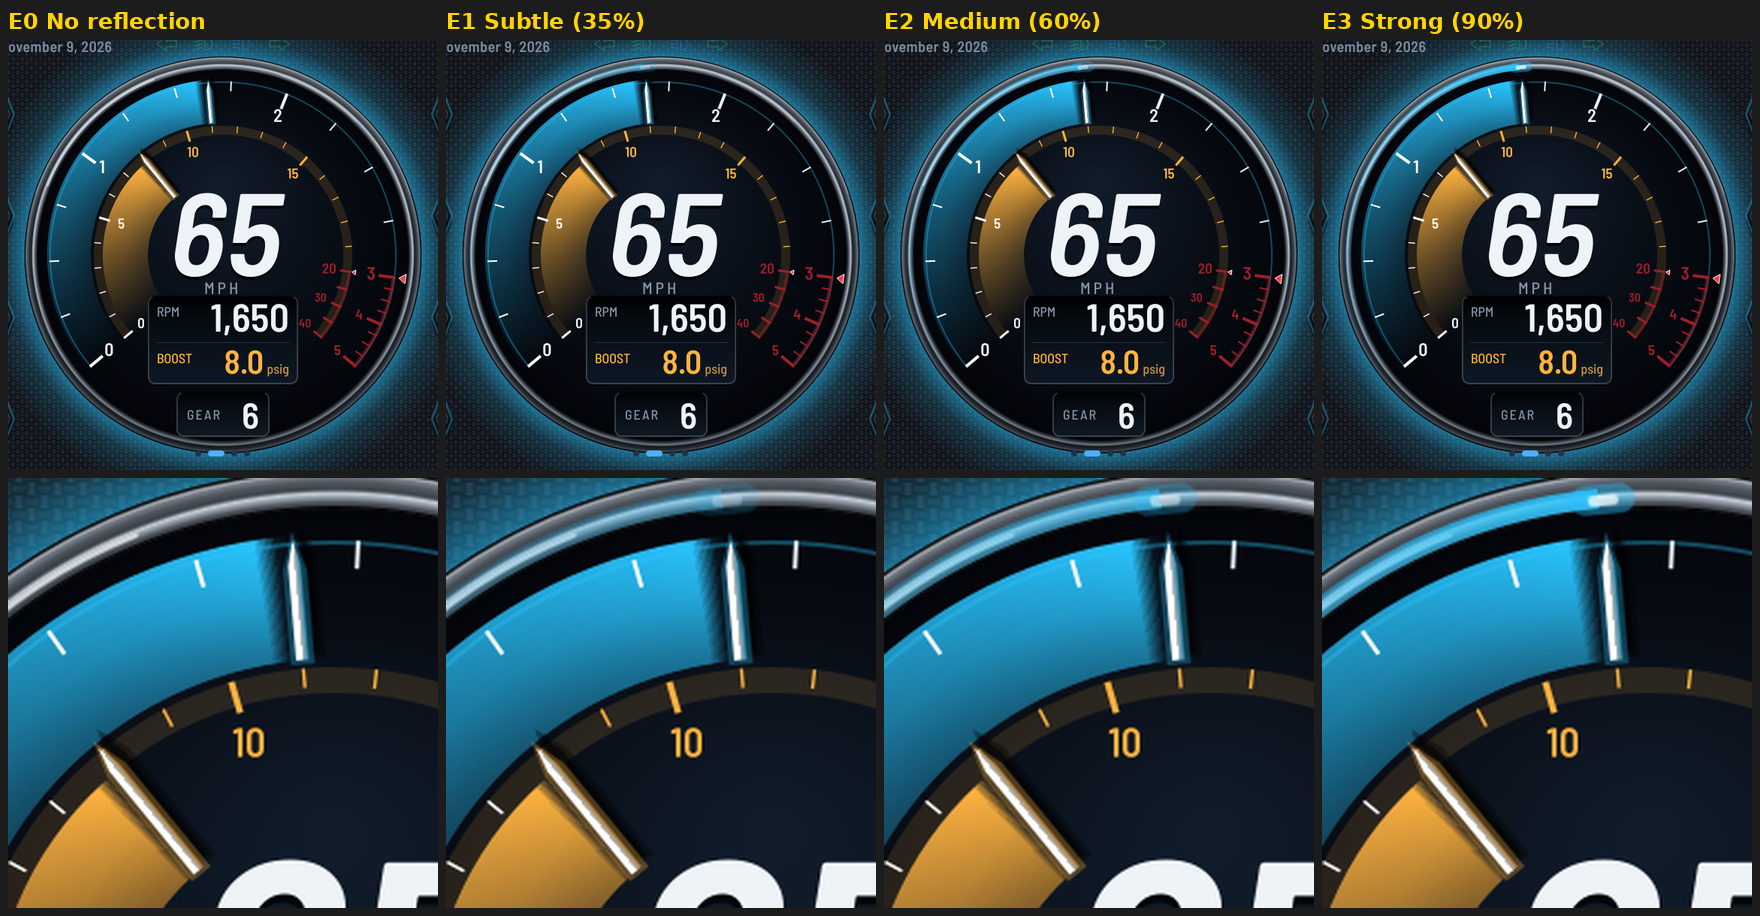
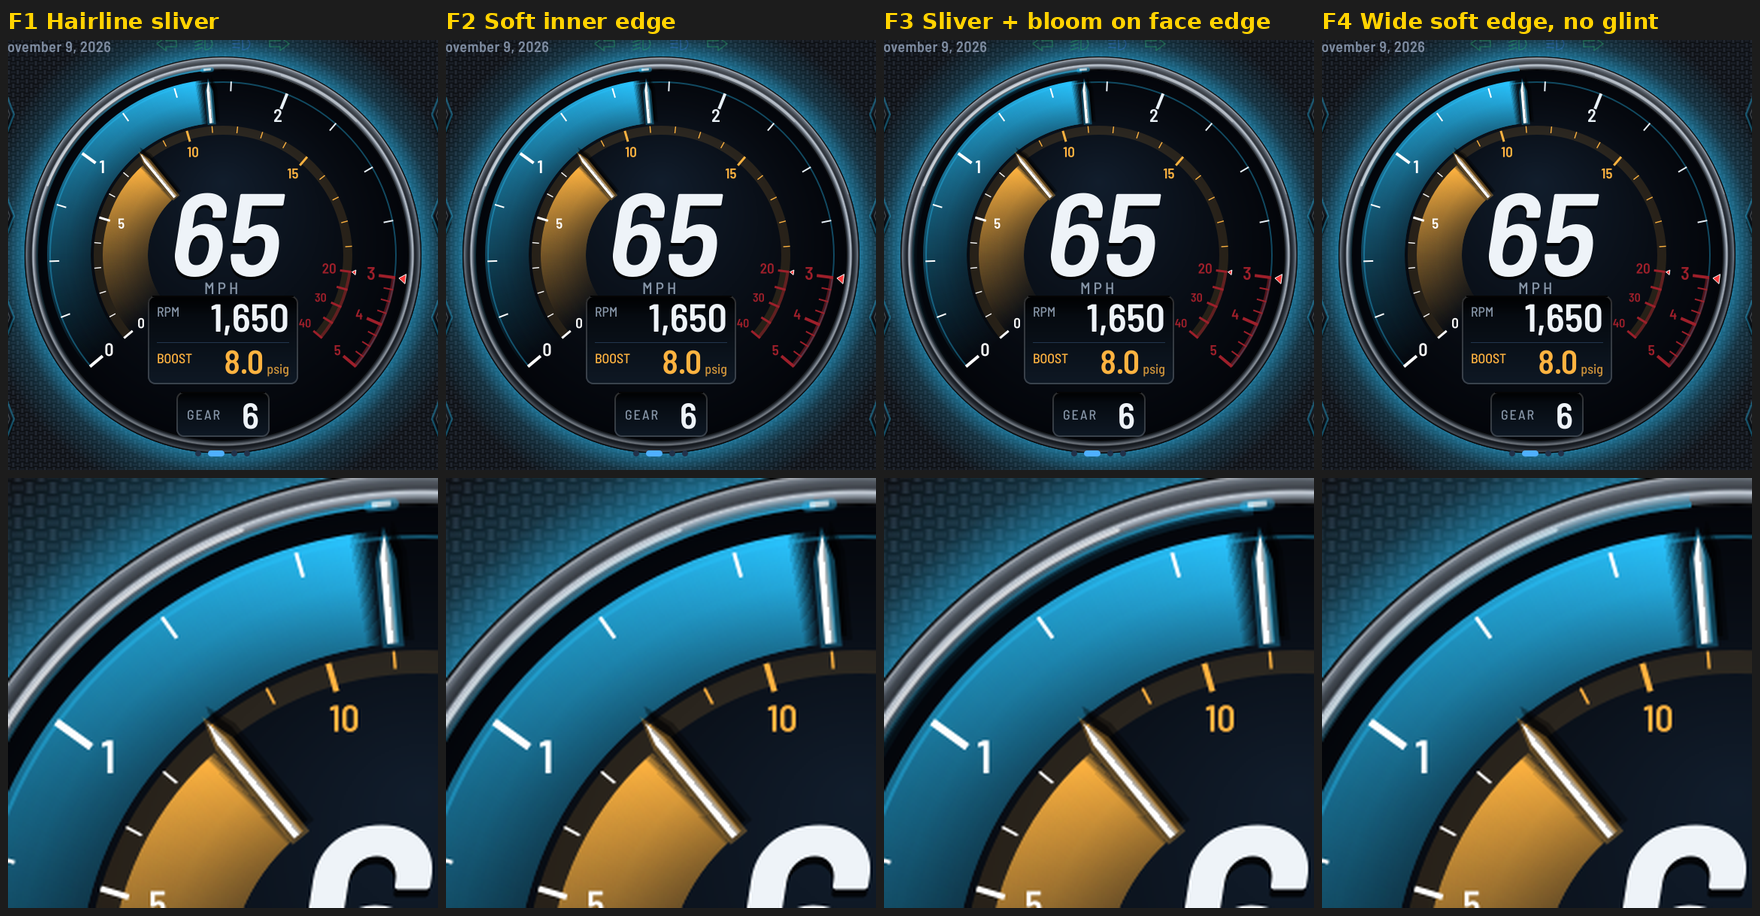
Towing page: bezel reflection only on the inner lip, fading outward (F2); options F1-F4
Claude-Session: https://claude.ai/code/session_01NB1fkpFcGY28RY4JZ8NWPC

diff --git a/gaugeworks/qml/TowGauge.qml b/gaugeworks/qml/TowGauge.qml
@@ -37,7 +37,7 @@ Item {
                                       // 4-6 round chrome tube (like a hoop earring) + backlight: 4 slim, 5 thick, 6 thick polished;
                                       // 7-10 high-quality ring, glow from behind: 7 polished chrome, 8 satin, 9 gunmetal, 10 polished + inner bevel
     property real haloA: 0.55
-    property real bezelRefl: 0.6     // the RPM light trail reflected in the bezel's inner edge (0 = off)        // backlight spilling onto the background behind the gauge
+    property real bezelRefl: 0.8     // the RPM light trail reflected in the bezel's inner edge (0 = off)        // backlight spilling onto the background behind the gauge
     property int holdMs: 3500         // hold the peak this long, then ease back to the needle in about 2.5 s
     property real demoRPeak: NaN      // screenshots only
     property real demoIPeak: NaN
@@ -258,35 +258,45 @@ Item {
         }
     }
 
-    // ---- the RPM light trail reflected in the bezel: on the inner half of the ring, which faces the dial
-    Shape {
-        id: refl
+    // ---- the RPM light trail reflected in the bezel's inner lip (the part curving down toward the dial).
+    // Concentric bands from the inner edge outward, each fainter: a thin sliver, brightest at the edge.
+    property int reflStyle: 2         // 1 hairline sliver, 2 soft inner edge, 3 sliver + bloom onto the face edge, 4 wide soft edge, no glint
+    readonly property var reflBands: reflStyle === 1 ? [[0, 1.5, 1.0], [1.5, 3, 0.45]]
+                                   : reflStyle === 3 ? [[-4, -1.5, 0.18], [-1.5, 0, 0.4], [0, 1.5, 1.0], [1.5, 3, 0.45]]
+                                   : reflStyle === 4 ? [[0, 2, 0.75], [2, 4, 0.45], [4, 6, 0.22], [6, 8, 0.08]]
+                                   : [[0, 1.5, 1.0], [1.5, 3, 0.6], [3, 4.5, 0.28], [4.5, 6, 0.1]]
+    component ReflBand: Shape {
+        id: rb
+        property real o0
+        property real o1
+        property real k
         anchors.fill: parent
-        readonly property real r0: g.rd + 1
-        readonly property real r1: g.rd + 10
+        readonly property real r0: g.rd + o0
+        readonly property real r1: g.rd + o1
         readonly property real swp: Math.max(0.01, g.rAng - g.a0)
         readonly property color col: g.rHot ? "#ff3b3b" : g.acc
-        opacity: g.ringStyle >= 7 && g.rOk ? 1 : 0
+        opacity: g.ringStyle >= 7 && g.rOk && g.bezelRefl > 0 ? 1 : 0
         ShapePath {
             strokeColor: "transparent"
             fillGradient: ConicalGradient {
                 centerX: g.cx; centerY: g.cy; angle: -g.rAng
-                GradientStop { position: 0; color: Qt.rgba(refl.col.r, refl.col.g, refl.col.b, g.bezelRefl) }
-                GradientStop { position: Math.max(0.002, refl.swp / 360 * 0.35); color: Qt.rgba(refl.col.r, refl.col.g, refl.col.b, g.bezelRefl * 0.35) }
-                GradientStop { position: Math.max(0.003, refl.swp / 360); color: Qt.rgba(refl.col.r, refl.col.g, refl.col.b, 0) }
+                GradientStop { position: 0; color: Qt.rgba(rb.col.r, rb.col.g, rb.col.b, g.bezelRefl * rb.k) }
+                GradientStop { position: Math.max(0.002, rb.swp / 360 * 0.35); color: Qt.rgba(rb.col.r, rb.col.g, rb.col.b, g.bezelRefl * rb.k * 0.4) }
+                GradientStop { position: Math.max(0.003, rb.swp / 360); color: Qt.rgba(rb.col.r, rb.col.g, rb.col.b, 0) }
                 GradientStop { position: 1; color: "transparent" }
             }
-            PathAngleArc { centerX: g.cx; centerY: g.cy; radiusX: refl.r1; radiusY: refl.r1; startAngle: g.a0; sweepAngle: refl.swp }
-            PathAngleArc { moveToStart: false; centerX: g.cx; centerY: g.cy; radiusX: refl.r0; radiusY: refl.r0
-                           startAngle: g.rAng; sweepAngle: -refl.swp }
+            PathAngleArc { centerX: g.cx; centerY: g.cy; radiusX: rb.r1; radiusY: rb.r1; startAngle: g.a0; sweepAngle: rb.swp }
+            PathAngleArc { moveToStart: false; centerX: g.cx; centerY: g.cy; radiusX: rb.r0; radiusY: rb.r0
+                           startAngle: g.rAng; sweepAngle: -rb.swp }
         }
     }
-    Item {   // bright glint on the bezel right where the needle is
+    Repeater { model: g.reflBands; ReflBand { o0: modelData[0]; o1: modelData[1]; k: modelData[2] } }
+    Item {   // glint on the inner lip right where the needle points
         x: g.cx; y: g.cy; rotation: g.rAng
-        opacity: g.ringStyle >= 7 && g.rOk ? g.bezelRefl : 0
-        Rectangle { x: g.rd - 2; y: -15; width: 14; height: 30; radius: 7
-                    color: Qt.rgba(refl.col.r, refl.col.g, refl.col.b, 0.45) }
-        Rectangle { x: g.rd + 2; y: -7; width: 5; height: 14; radius: 2.5; color: "#ffffff"; opacity: 0.8 }
+        readonly property color col: g.rHot ? "#ff3b3b" : g.acc
+        opacity: g.ringStyle >= 7 && g.rOk && g.reflStyle !== 4 ? g.bezelRefl : 0
+        Rectangle { x: g.rd - 2; y: -9; width: 6; height: 18; radius: 3; color: Qt.rgba(parent.col.r, parent.col.g, parent.col.b, 0.5) }
+        Rectangle { x: g.rd; y: -5; width: 2.5; height: 10; radius: 1.2; color: "#ffffff"; opacity: 0.85 }
     }
 
     // ---- light trails (behind the scales)

diff --git a/docs/decisions.md b/docs/decisions.md
@@ -286,5 +286,5 @@ its own skin.
 - Center ring C3: gunmetal chrome tube with real-chrome reflections (sky band,
   dark horizon, crisp highlights), a soft shadow on the face, and the accent
   backlight spilling onto the background from behind the gauge. The RPM light
-  trail reflects in the bezel's inner edge, with a glint where the needle is
-  (60%). Also K4 peak trail (32°, 75%), panel outlines at 35%, deep red scale zone.
+  trail reflects only in the bezel's inner lip (the part curving down toward
+  the dial) as a thin sliver fading outward, with a glint where the needle is. Also K4 peak trail (32°, 75%), panel outlines at 35%, deep red scale zone.
